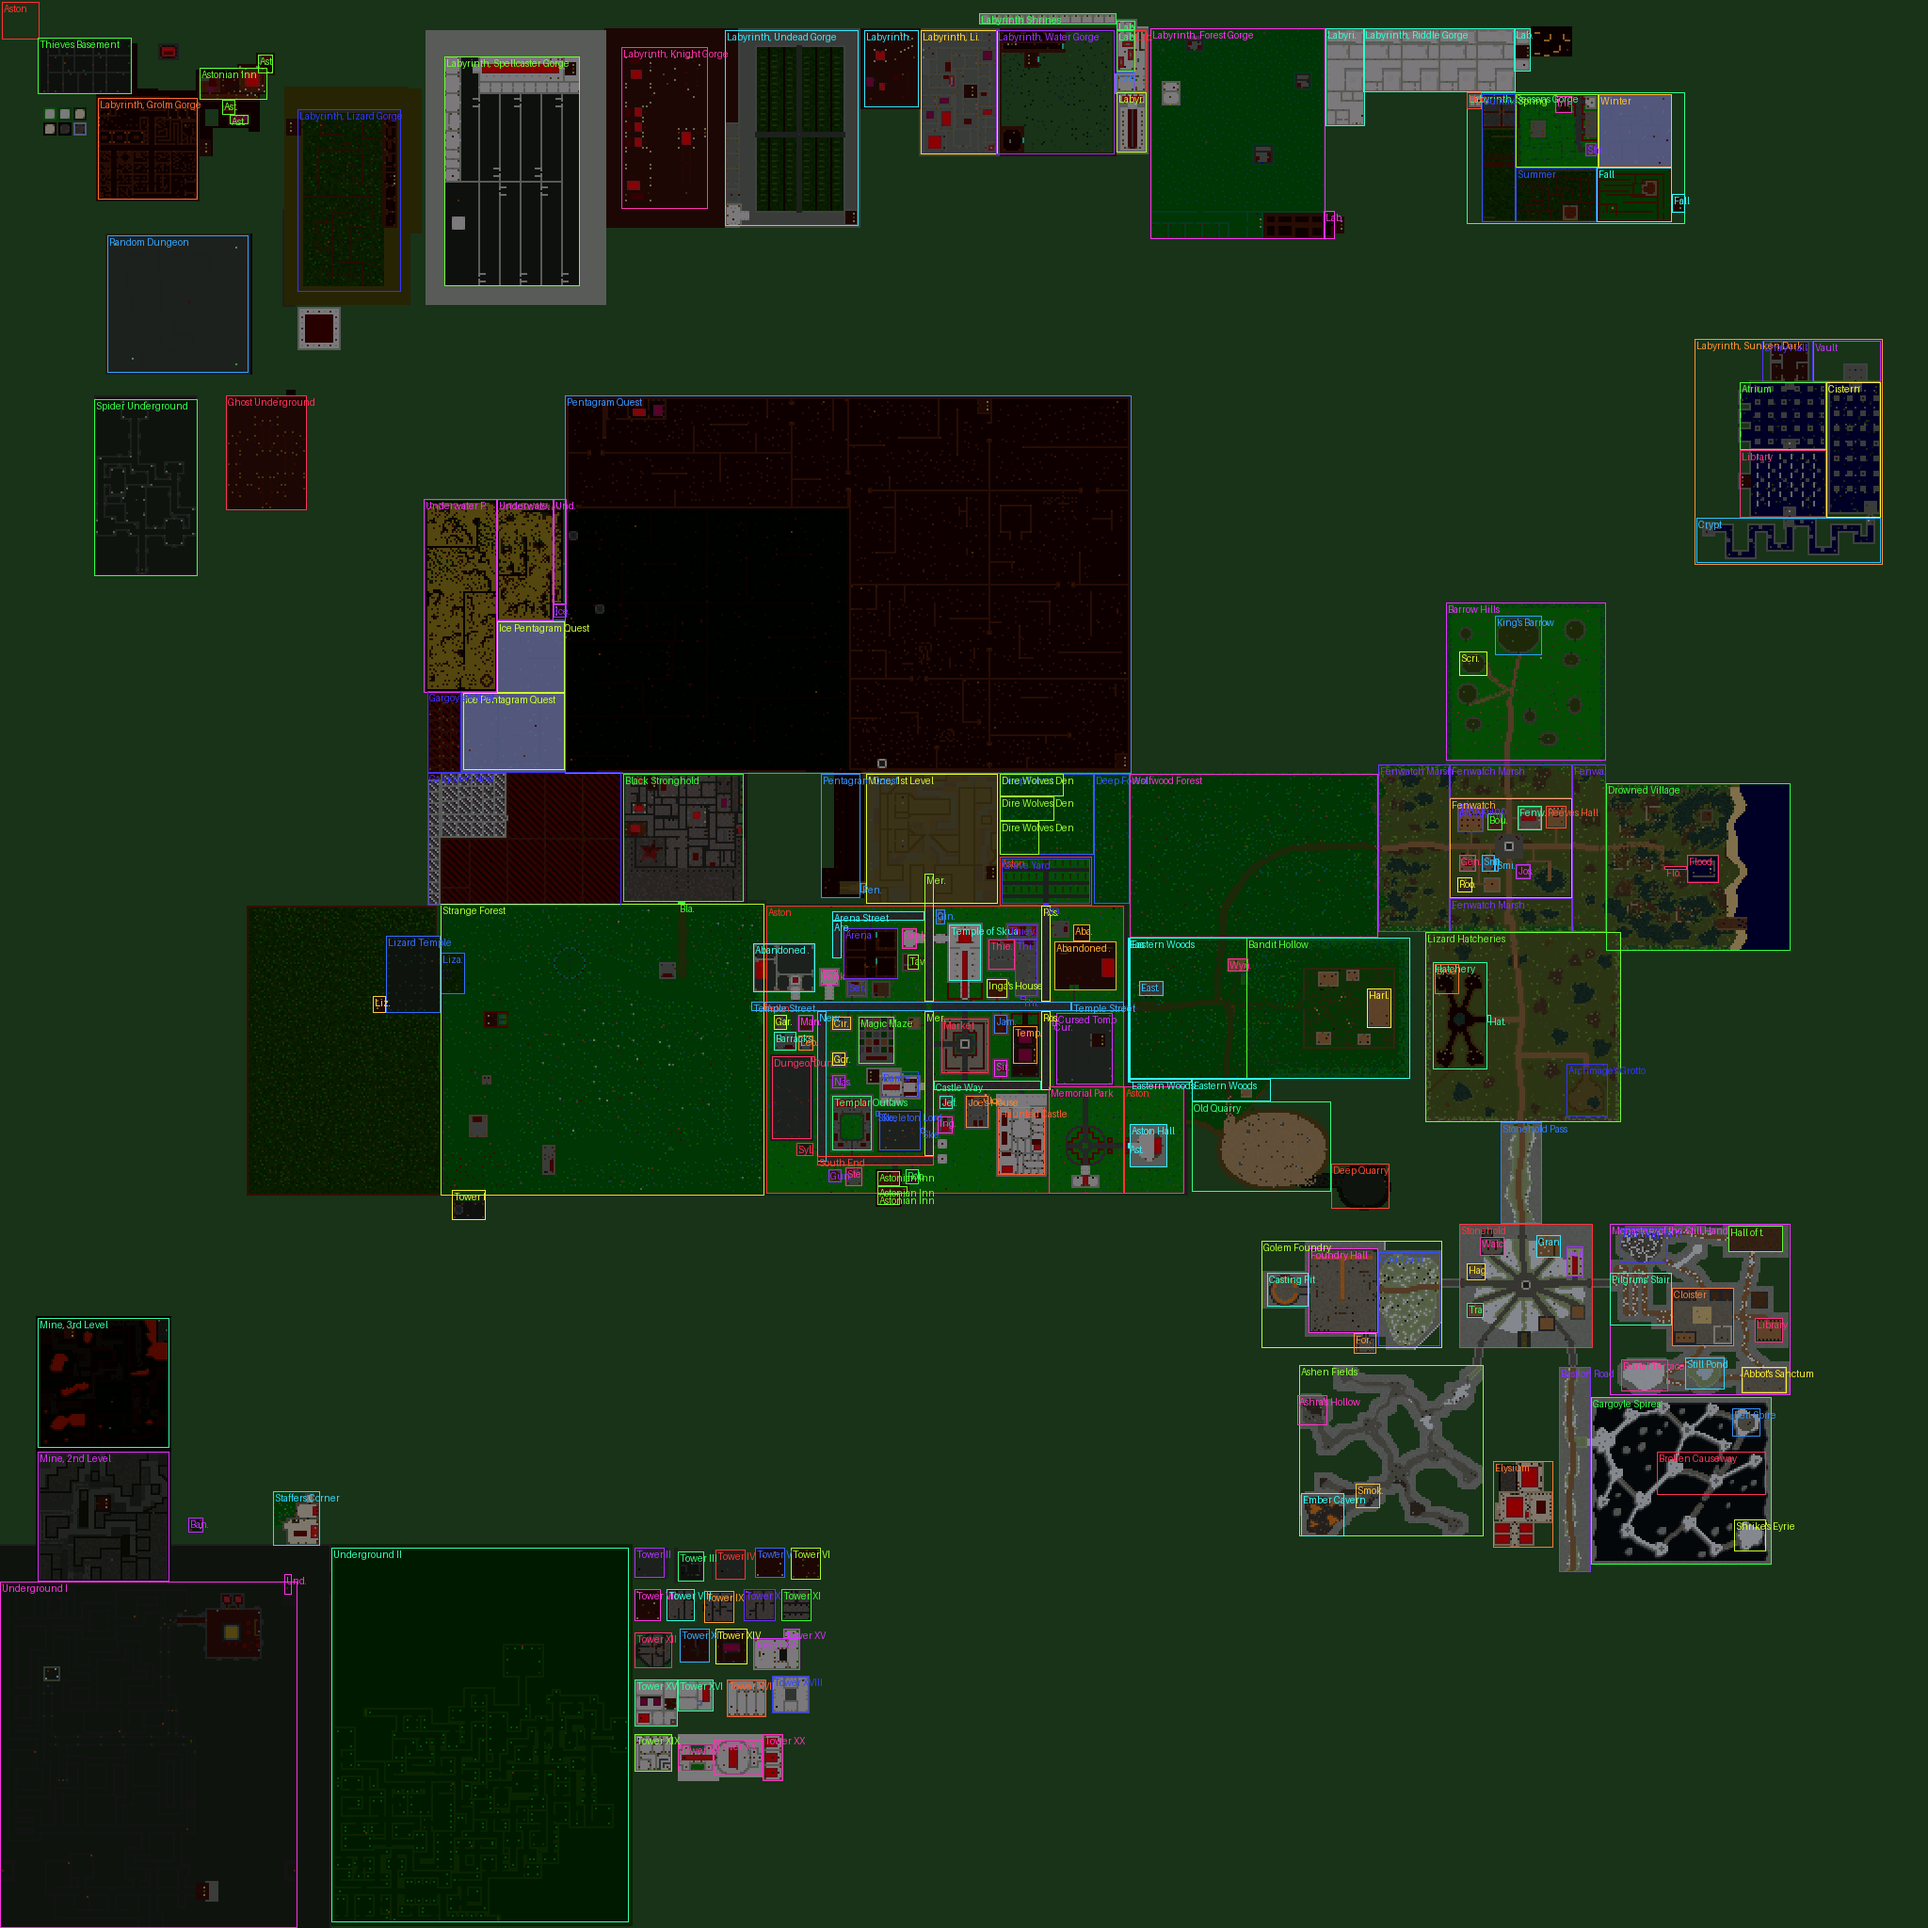
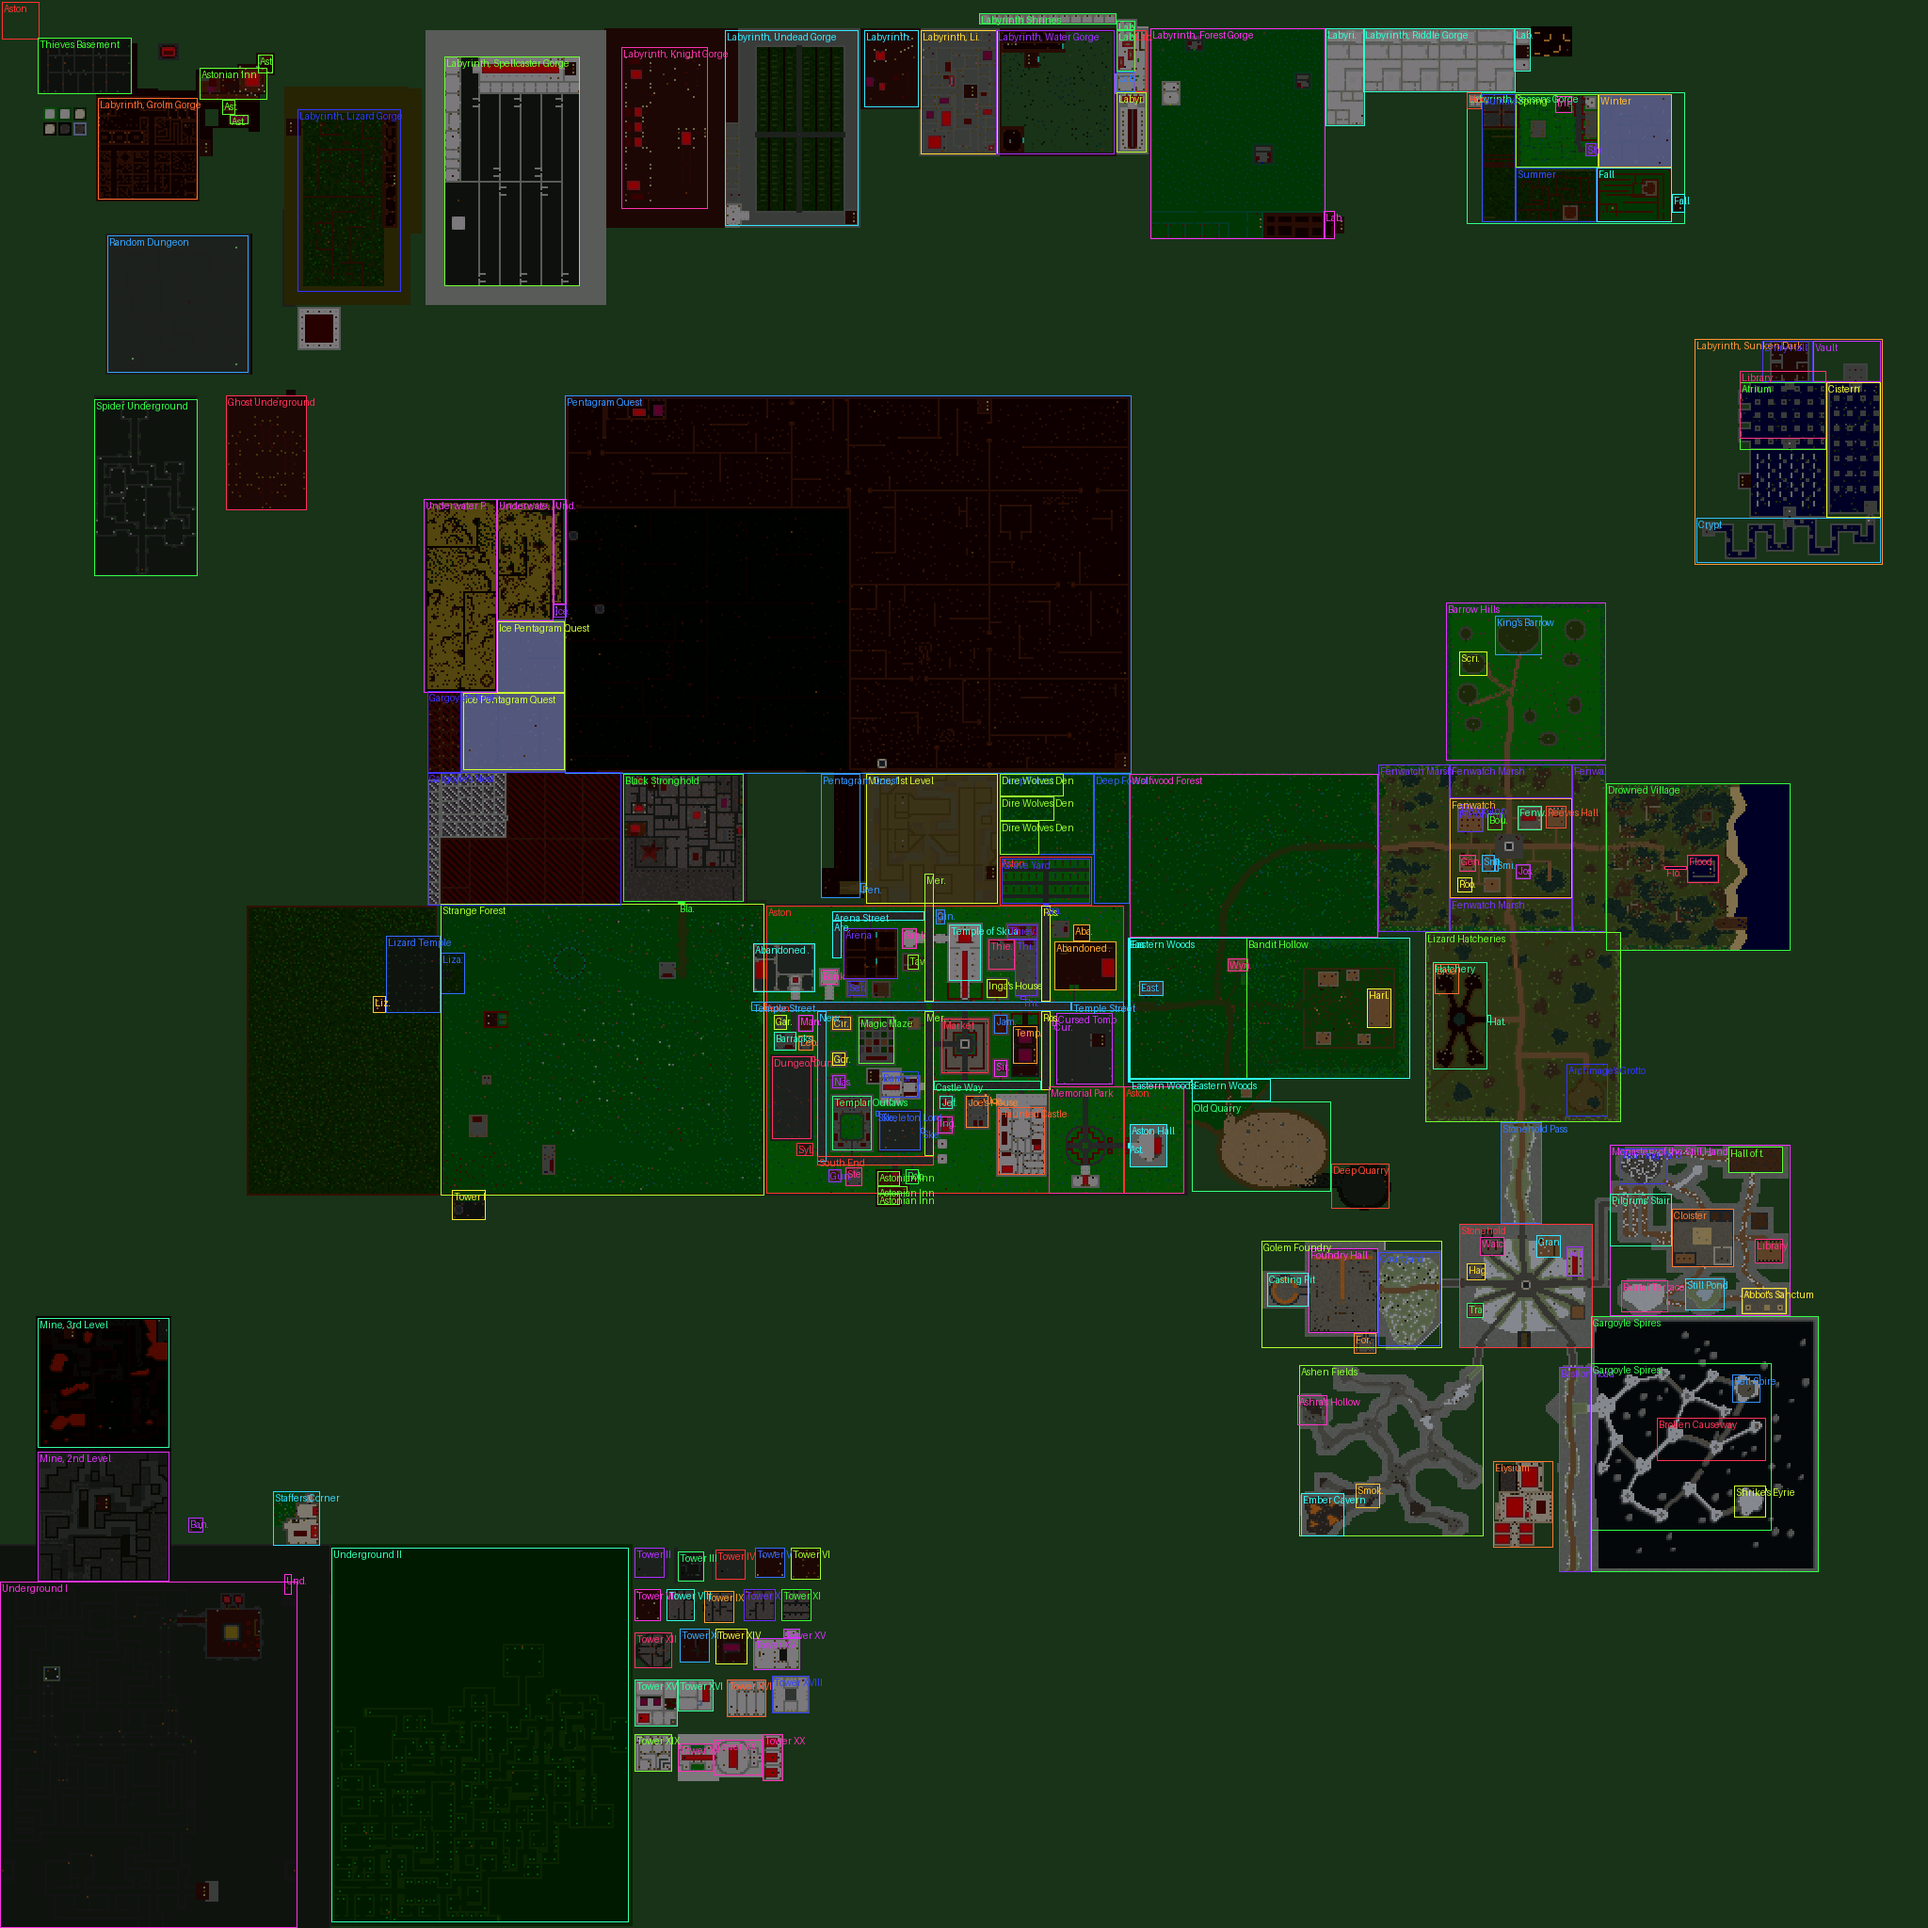
Monastery and Spires moved north LIVE; smoother chasm walls; client-dist 4a80e6d; docs and maps
Claude-Session: https://claude.ai/code/session_01AHK8Gjj1u582HPuMYjjGso

Changed region(s): [[0.8125, 0.5938, 0.9688, 0.8125]]

diff --git a/docs/QUEST_BUILD.md b/docs/QUEST_BUILD.md
@@ -65,7 +65,7 @@ past Elysium -> Last Bastion.** The Barrow Hills are a dead end off Fenwatch's n
 | Lizard Hatcheries (C, Captain) | 505,765 - 595,860 | Fenwatch south gate (476, 800-802); **through road south, y 800-815, open at x 595** |
 | pass | 596,800 - 649,815 | |
 | Stonehold (D hub) | 650,775 - 715,845 | |
-| Golem Foundry / Monastery / Ashen Fields / Gargoyle Spires | 650,670-740,765 / 650,855-740,950 / 725,690-815,785 / 745,845-830,940 | Stonehold |
+| Golem Foundry / Monastery / Ashen Fields / Gargoyle Spires | 650,670-740,765 / 608,855-698,950 (moved Nov 19) / 725,690-815,785 / 699,845-834,965 (moved Nov 19) | Stonehold |
 | pass (east of Elysium 776-822, 795-825, which stays walled off) | 716,828 - 834,842 | |
 | Last Bastion (E-F hub) | 835,800 - 895,865 | |
 | Frostfang / Barbarian Highlands / Citadel of Kael / Abyssal Rift | 835,690-925,790 / 835,880-925,975 / 900,795-1010,870 / 930,880-1020,975 | Last Bastion |
@@ -232,7 +232,7 @@ Stonehold's west gate (681,766) and runs west (-y) into it. Monster group 37 (no
   38416 / 38418 (each N+1 its hide-walls copy); molten iron ground 36300-36303 (edges into the hall floor to make). 3D props
   from Cody's `3d Models\Fantasy Props` (Anvil, Anvil_Log, Cauldron, Bucket_Metal, Whetstone) and RPG Pack 2 (Gold_Ingots).
 
-## 9d. The Gargoyle Spires (Brigadier General) - **LIVE Nov 19, 07:20** (CHANGES.md "Gargoyle Spires")
+## 9d. The Gargoyle Spires (Brigadier General) - **LIVE Nov 19, 07:20** (CHANGES.md "Gargoyle Spires") - **moved 18 north Nov 19, 20:54: islands x 724-812, the drop x 699-834 / y 845-965** (Cody: no walls within 25 of anywhere reachable but the west; the coordinates below are the old ones)
 
 **How it went live** (Claude's first stop-send was refused by the safety system; it went through after Cody's "go live"): gated stop-send ->
 on `Server\.dat` in this order: `gargoyle_spires/build_spires.py`, `place_spires.py`, `quest_fix/quest_next.py`,
@@ -281,7 +281,7 @@ off its east side (about 765,843). Monster group 39 (not undead). Draft shown to
   ...: replaced by the v4 layout above), snow ridges and flagstone bridges, ~25 lone pillars in the gorge, a granite rim round the box. Zones:
   Bastion Road, Gargoyle Spires, Broken Causeway, Bell Spire, Shrike's Eyrie. Still to draw: the cracked bell, perch statues.
 
-## 9e. The Monastery of the Still Hand (Lieutenant Colonel) - **LIVE Nov 19, 18:05** (CHANGES.md; band D complete)
+## 9e. The Monastery of the Still Hand (Lieutenant Colonel) - **LIVE Nov 19, 18:05** (CHANGES.md; band D complete) - **moved 42 north Nov 19, 20:54: now x 608-698** (relocate_band_d.py; the coordinates below are the old ones)
 
 **As built** (supersedes the plan below where they differ): `tools/world/monastery/build_monastery.py` (terrain v5: the
 zig-zag Pilgrims' Stair, 1-2 statues per leg; the Cloister; north route Training Yard -> Hall of the Silent Hand (far

diff --git a/docs/world_zones.md b/docs/world_zones.md
@@ -94,7 +94,7 @@ Shown by `/who`, by NPCs when asked where you are, and in server logs. A spot in
 | 84 | Labyrinth, Sunken Dark | 180,900 | 299,999 | "in the Labyrinth, Sunken Dark" |
 | 85 | Entry Hall | 181,936 | 202,962 | "in the Entry Hall" |
 | 86 | Atrium | 203,924 | 238,969 | "in the Atrium" |
-| 87 | Library | 239,924 | 274,969 | "in the Library" |
+| 87 | Library | 197,924 | 232,969 | "in the Library" |
 | 88 | Crypt | 275,901 | 298,998 | "in the Crypt" |
 | 89 | Cistern | 203,970 | 274,998 | "in the Cistern" |
 | 90 | Vault | 181,963 | 202,998 | "in the Vault" |
@@ -230,16 +230,17 @@ Shown by `/who`, by NPCs when asked where you are, and in server logs. A spot in
 | 220 | Ember Cavern | 793,691 | 815,713 | "in the Ember Cavern" |
 | 221 | Smoking Steps | 788,720 | 800,732 | "in the Smoking Steps" |
 | 222 | Bastion Road | 726,828 | 834,844 | "in the Bastion Road" |
-| 223 | Gargoyle Spires | 742,845 | 830,940 | "in the Gargoyle Spires" |
-| 224 | Broken Causeway | 771,880 | 793,937 | "in the Broken Causeway" |
-| 225 | Bell Spire | 748,920 | 762,934 | "in the Bell Spire" |
-| 226 | Shrike's Eyrie | 807,921 | 823,937 | "in Shrike's Eyrie" |
-| 227 | Monastery of the Still Hand | 650,855 | 740,950 | "in the Monastery of the Still Hand" |
-| 228 | Pilgrims' Stair | 676,855 | 703,887 | "in Pilgrims' Stair" |
-| 229 | Cloister | 684,888 | 714,920 | "in the Cloister" |
-| 230 | Training Yard | 652,860 | 670,884 | "in the Training Yard" |
-| 231 | Hall of the Silent Hand | 651,918 | 664,946 | "in the Hall of the Silent Hand" |
-| 232 | Burial Terrace | 722,861 | 738,885 | "in the Burial Terrace" |
-| 233 | Still Pond | 721,895 | 737,915 | "in the Still Pond" |
-| 234 | Abbot's Sanctum | 726,925 | 739,948 | "in the Abbot's Sanctum" |
-| 235 | Library | 700,932 | 712,946 | "in the Library" |
+| 223 | Gargoyle Spires | 724,845 | 812,940 | "in the Gargoyle Spires" |
+| 224 | Broken Causeway | 753,880 | 775,937 | "in the Broken Causeway" |
+| 225 | Bell Spire | 730,920 | 744,934 | "in the Bell Spire" |
+| 226 | Shrike's Eyrie | 789,921 | 805,937 | "in Shrike's Eyrie" |
+| 227 | Monastery of the Still Hand | 608,855 | 698,950 | "in the Monastery of the Still Hand" |
+| 228 | Pilgrims' Stair | 634,855 | 661,887 | "in Pilgrims' Stair" |
+| 229 | Cloister | 642,888 | 672,920 | "in the Cloister" |
+| 230 | Training Yard | 610,860 | 628,884 | "in the Training Yard" |
+| 231 | Hall of the Silent Hand | 609,918 | 622,946 | "in the Hall of the Silent Hand" |
+| 232 | Burial Terrace | 680,861 | 696,885 | "in the Burial Terrace" |
+| 233 | Still Pond | 679,895 | 695,915 | "in the Still Pond" |
+| 234 | Abbot's Sanctum | 684,925 | 697,948 | "in the Abbot's Sanctum" |
+| 235 | Library | 658,932 | 670,946 | "in the Library" |
+| 236 | Gargoyle Spires | 699,845 | 834,965 | "in the Gargoyle Spires" |

diff --git a/CHANGES.md b/CHANGES.md
@@ -1397,6 +1397,23 @@ the Spider Queen, the Ghost King, Robin; the Eastern Woods (Hollis, Edda, Tobias
 chain); Fenwatch by rank (Joss, Ilse, Corwin, Aldous, Petra, Robin's second, Rook); Stonehold (Hagar, Brann); Syleia last.
 `tools/world/quest_fix/quest_order.py` (new quests: add them to its list).
 
+## The Spires' drop and the Monastery moved north (Nov 19, live)
+
+Cody, walking the Spires: "the black area has weird jagged edges", "you still easily see the square sides" - "there
+should be no walls within 25 tiles of a place a player can reach" (Bastion Road on the west is fine); "can the
+monastery move north?", "can you not move the poles as well?".
+- **Chasm walls** (`world_chasm.py`, 37400-37527 redrawn): the rock now melts into the mist below instead of ending in
+  teeth along the tile corners.
+- **Moved** (`tools/world/relocate_band_d.py`, with the map editor's own copy / paste and NPC move): the **Monastery 42
+  tiles north** (now x 608-698) and the **Spires 18 tiles north** (islands x 724-812; the gate on Bastion Road 18 tiles
+  up) - every monster, Brother Anselm, statues, doors, furniture as they were, templates and quests unchanged. Both
+  **exploration poles moved as the same poles** (Monastery 692,894; Spires 757,933): who found them keeps them found.
+  Stonehold's east gate road runs on along the gap below the town to the new foot of Pilgrims' Stair (639,855).
+- **The drop**: 26+ tiles of it north, south and east of every reachable tile (x 699-834, on east to y 965), more lone
+  pillars in it, the far rim out of sight; `build_spires.py --edges --shift -18` makes it (islands untouched).
+- Client files: client-dist 4a80e6d. (build_monastery.py / place_*.py still describe the old places - relocate_band_d.py
+  is the record of the move.)
+
 ## Town shrines set your recall (Nov 19, live)
 
 Praying at a town's shrine with nothing in your hand makes that town's temple your recall point (Recall, dying, the

diff --git a/docs/HANDOFF.md b/docs/HANDOFF.md
@@ -268,6 +268,10 @@ project's next session. What the second chat did Nov 15-17 (all live, CHANGES.md
 the Ashen Fields (Varo), then the Gargoyle Spires (Rhea; the Spires add Gargoyle Horns to Brann's bounty), the Monastery last.
 Open: molten iron / crucibles / furnaces give no light (only the fire bowls do) - offered Cody hidden light sources.
 
+**Nov 19, 20:54: the Monastery (42 north) and the Spires (18 north) were MOVED live** (relocate_band_d.py; CHANGES.md):
+the Spires now have 26+ tiles of drop round every reachable tile except Bastion Road (Cody's rule). Their build_ /
+place_ scripts still describe the old places - don't re-run them without adding the shift. Poles moved with them.
+
 **Exploration poles:** the Gargoyle Spires' and the Monastery's are placed (Cody, Nov 19 19:14 / 19:16). Band D's poles are all in.
 
 **Nov 19, 18:05: the Monastery of the Still Hand is LIVE - band D is complete** (CHANGES.md; client-dist 8fa9b5b, Cody pushes).
